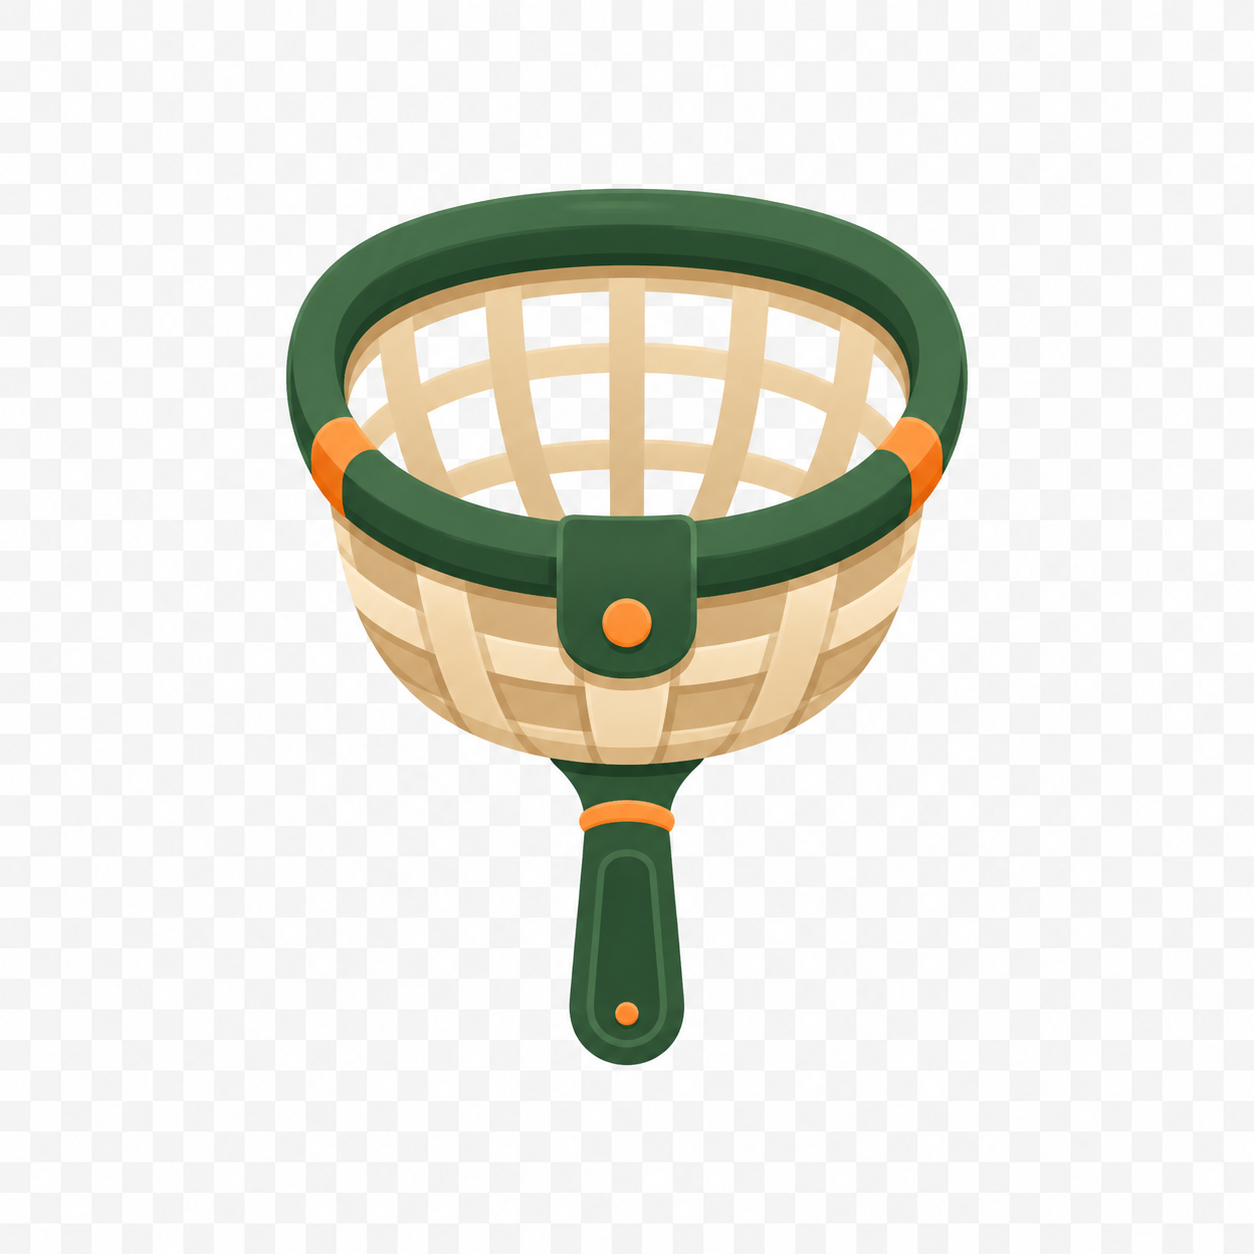
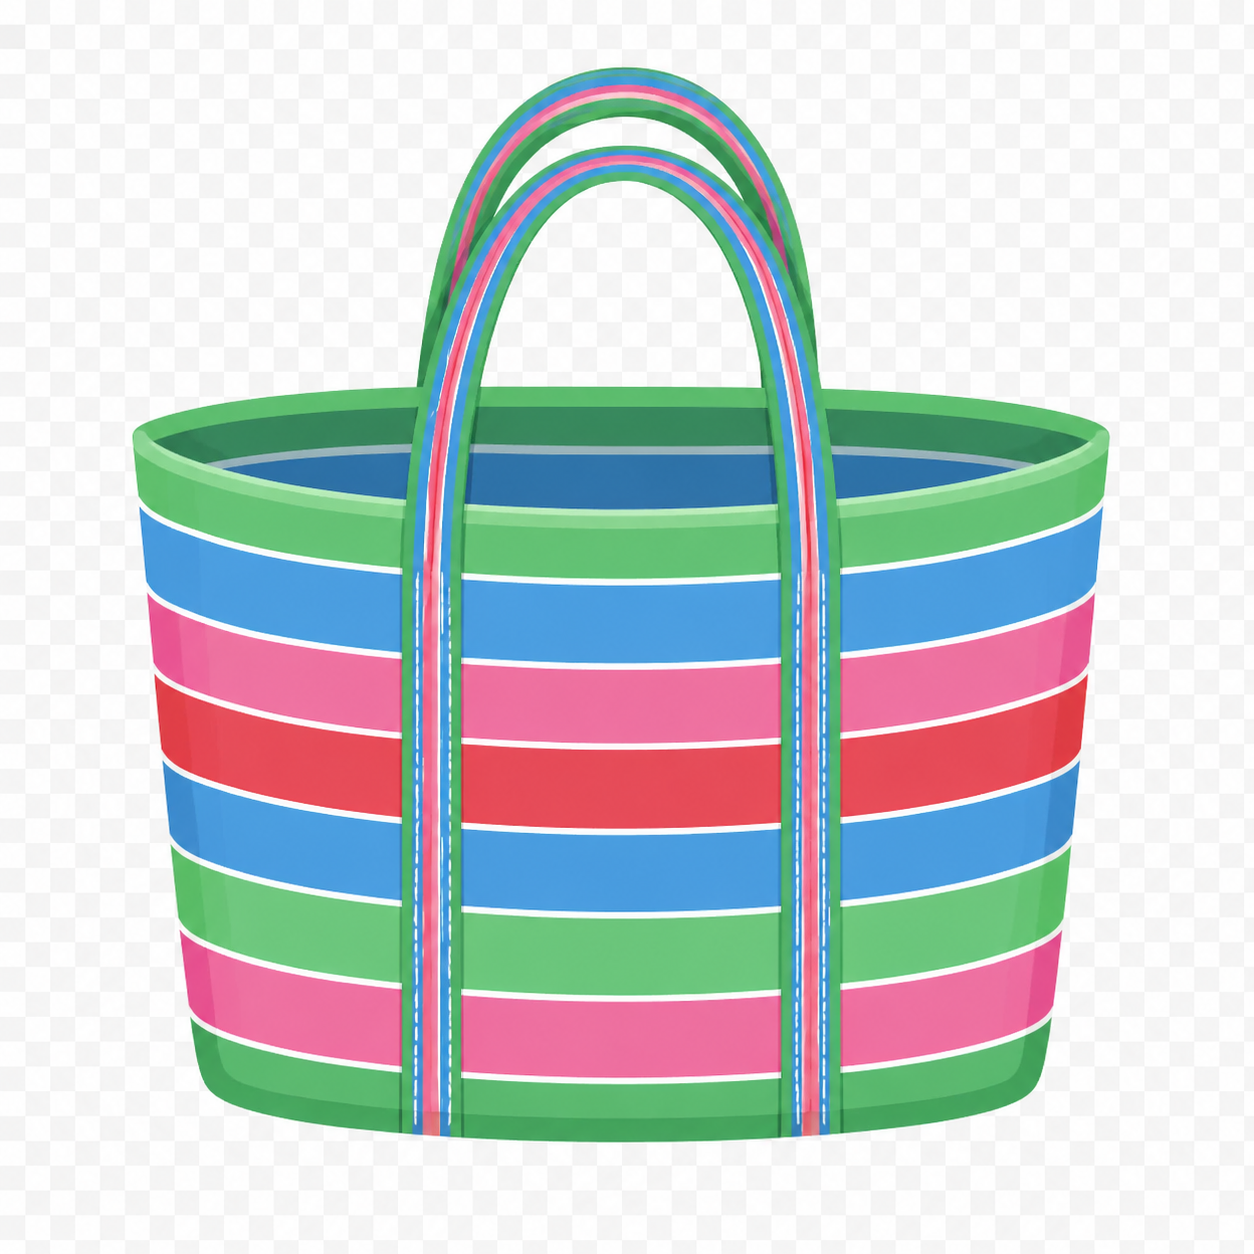
Add files via upload

diff --git a/style.css b/style.css
@@ -2194,11 +2194,13 @@ h1 {
 
 .drop-card {
   display: flex;
-  width: 116px;
-  max-width: 116px;
+  width: 138px;
+  max-width: 138px;
   min-height: 58px;
   align-items: center;
   justify-content: center;
+  gap: 8px;
+  padding: 10px 14px;
   opacity: 0;
   visibility: visible;
   animation: none;
@@ -2211,6 +2213,18 @@ h1 {
   filter: none;
   pointer-events: none;
   z-index: 5;
+  white-space: nowrap;
+  line-height: 1.15;
+  letter-spacing: 0;
+}
+
+.drop-card span:last-child {
+  white-space: nowrap;
+}
+
+.drop-icon {
+  flex: 0 0 auto;
+  font-size: 1.08em;
 }
 
 .drop-card.is-visible {
@@ -2226,8 +2240,11 @@ h1 {
 
 @media (max-width: 640px) {
   .drop-card {
-    width: 98px;
-    max-width: 98px;
+    width: 112px;
+    max-width: 112px;
     min-height: 52px;
+    gap: 6px;
+    padding: 9px 10px;
+    font-size: 0.96rem;
   }
 }

diff --git a/game.js b/game.js
@@ -5,8 +5,8 @@ const RISK_MAX = 100;
 const BASE_FALL_SPEED = 96;
 const MAX_DELTA = 0.033;
 const SPAWN_OFFSET = 56;
-const DROP_WIDTH_DESKTOP = 116;
-const DROP_WIDTH_MOBILE = 98;
+const DROP_WIDTH_DESKTOP = 138;
+const DROP_WIDTH_MOBILE = 112;
 const EARLY_GAME_SPEED_DURATION = 10;
 const EARLY_GAME_SPEED_MULTIPLIER = 0.85;
 const NORMAL_SPEED_START = 10;
